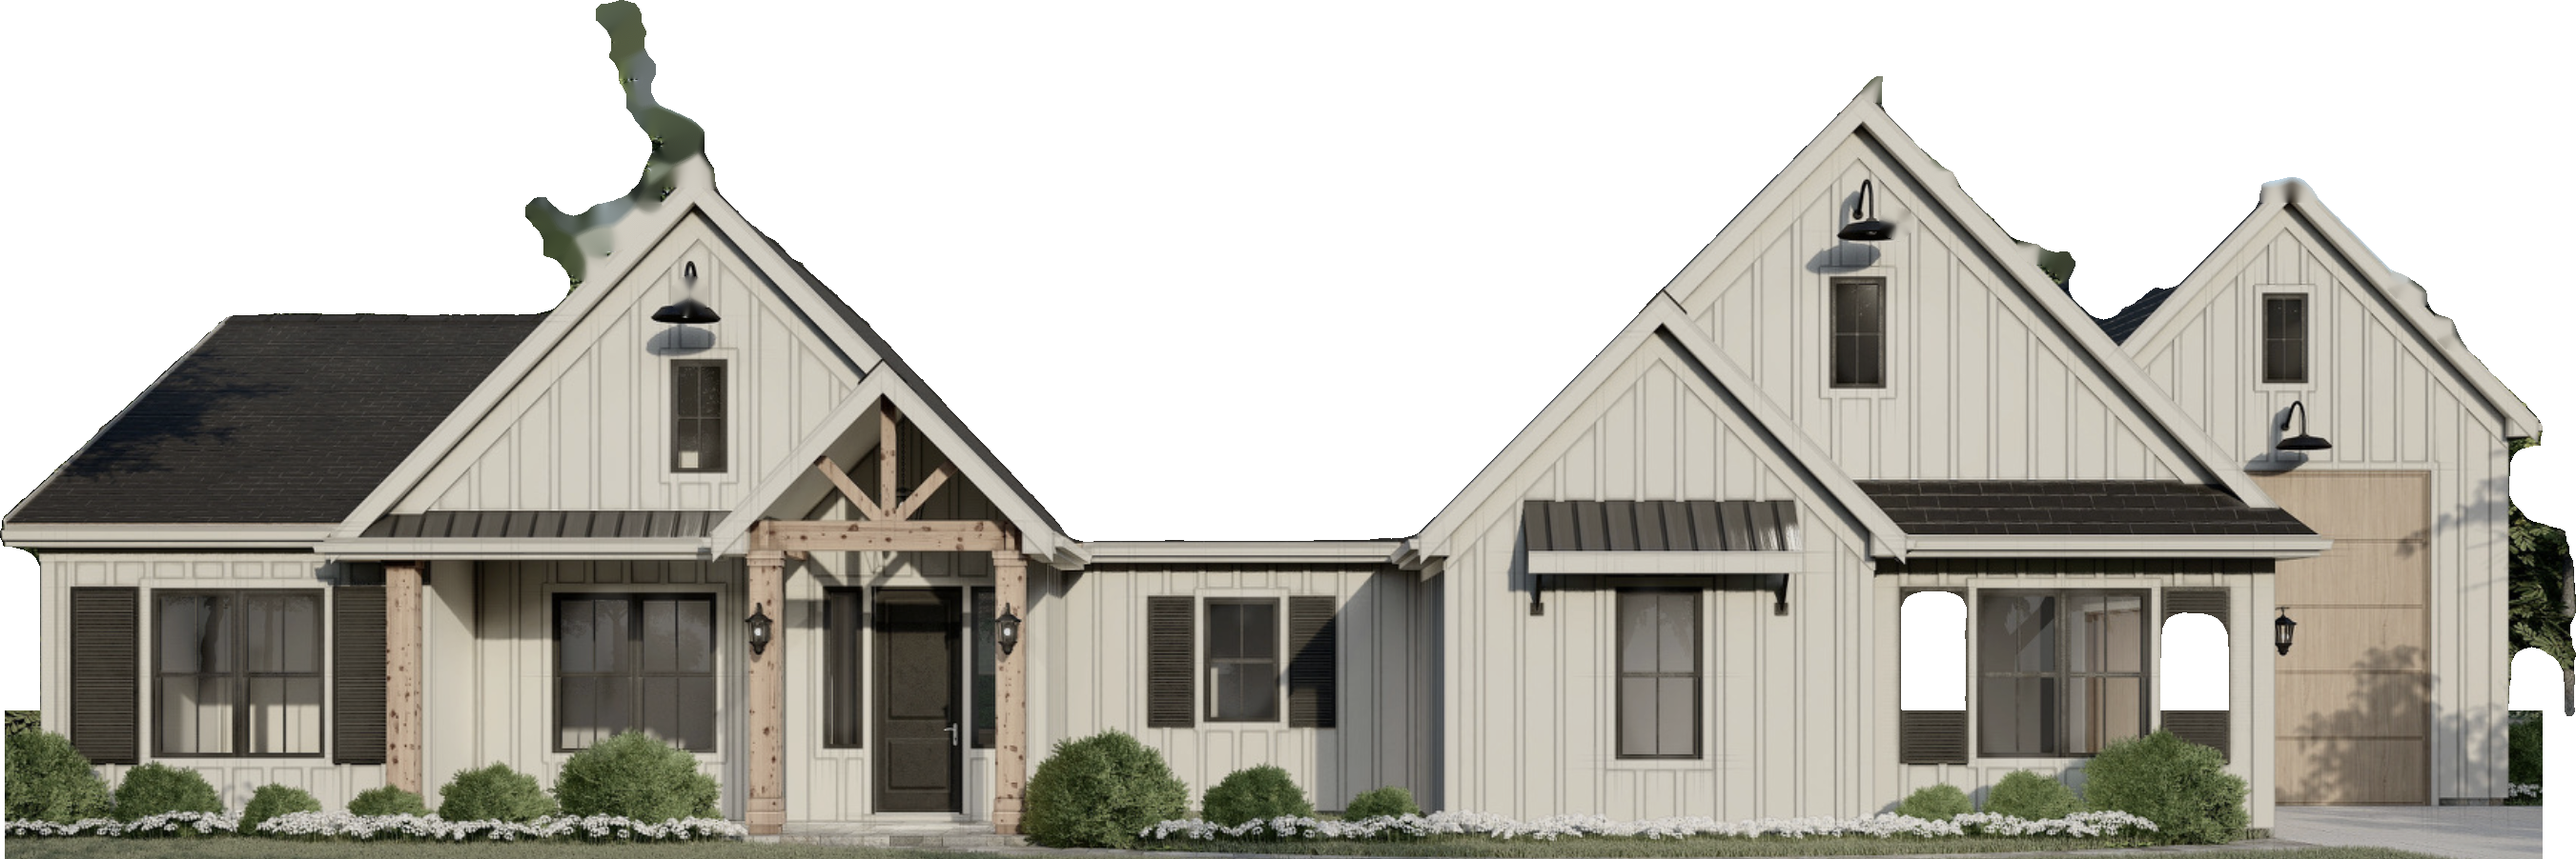
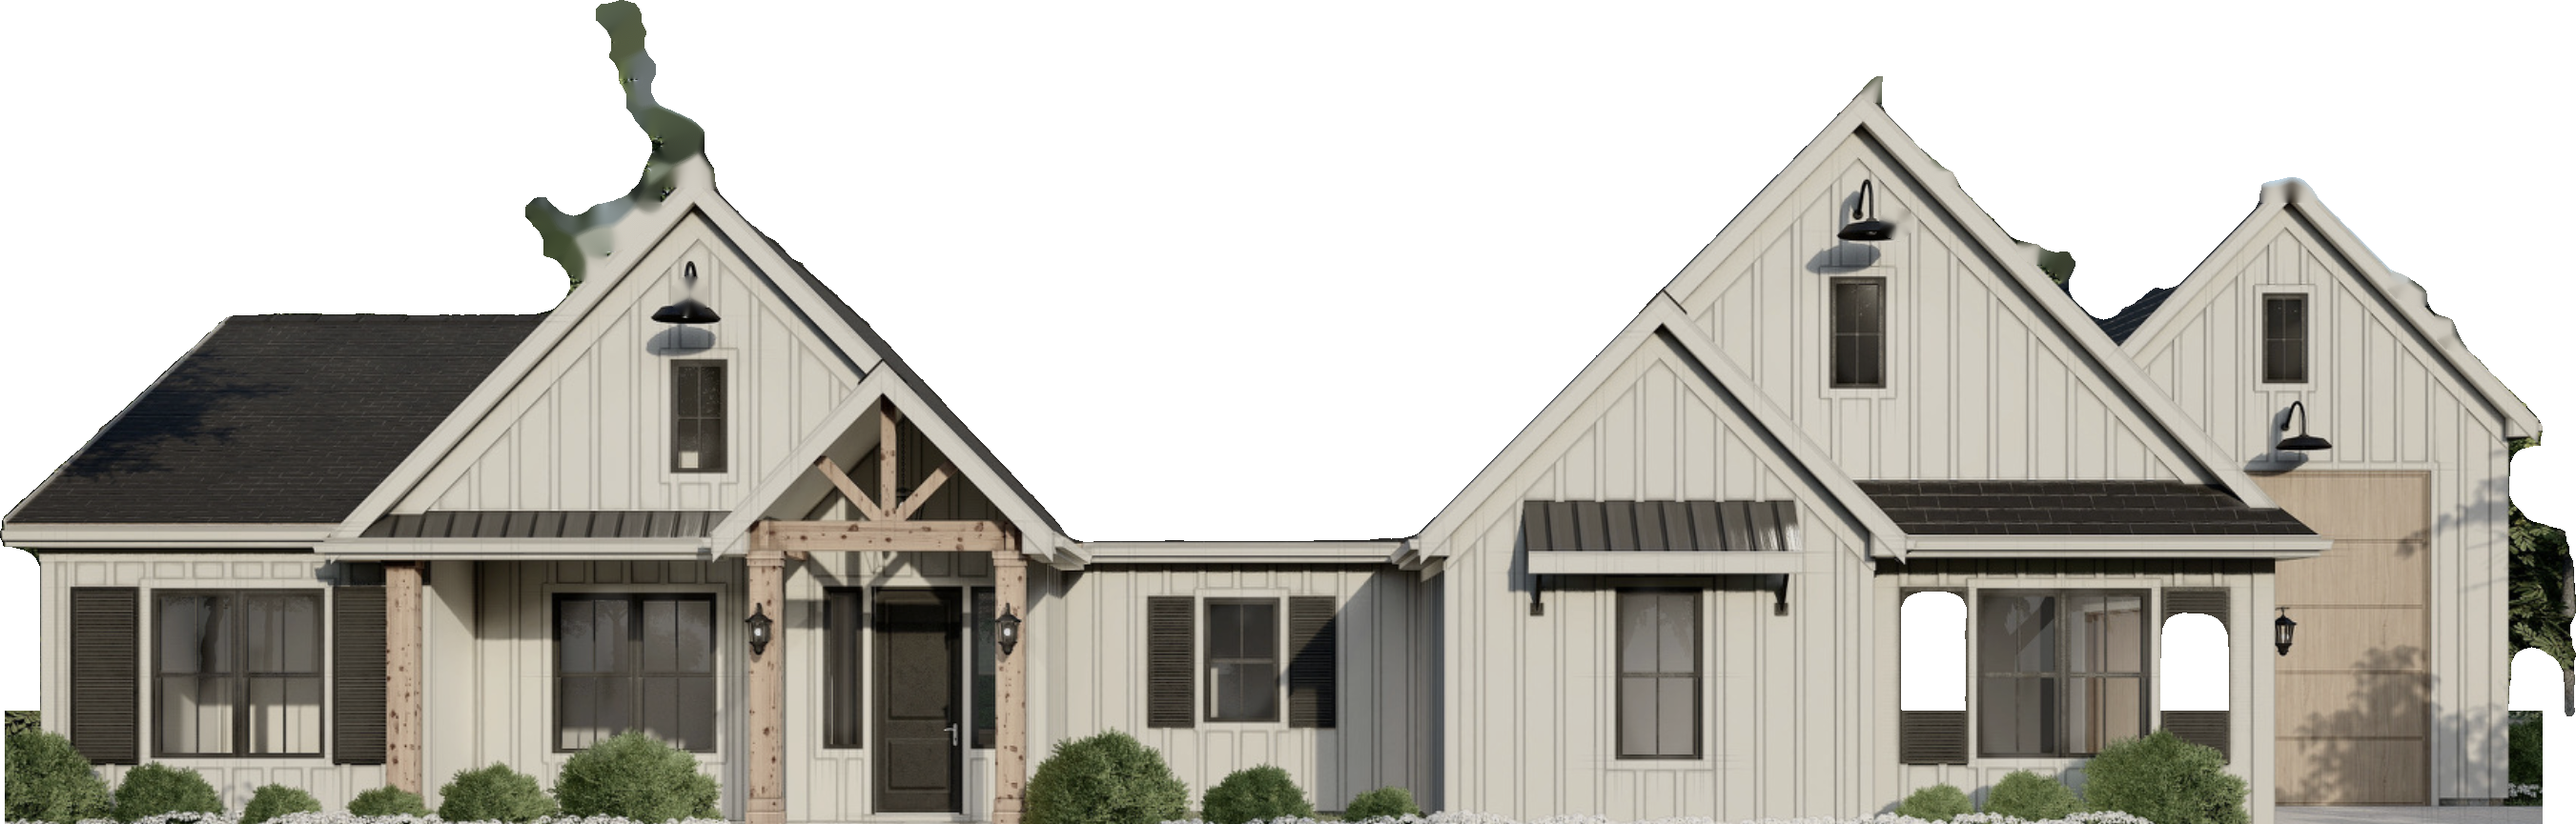
Fix driveway continuity: light concrete pave and street setback
Concrete no longer uses the dark asphalt map (which read as a black gap).
Homes drop near the curb with a realistic setback, and the apron/ribbon
share one light pave color through the garage threshold.

Changed region(s): [[0.0, 0.0936, 1.0, 1.0], [0.6218, 0.874, 0.6839, 0.9364], [0.6218, 0.7803, 0.6528, 0.8428]]

diff --git a/src/studio/StudioCanvas.tsx b/src/studio/StudioCanvas.tsx
@@ -196,10 +196,12 @@ export default function StudioCanvas({
 
     const shadow = shadowRef.current
     if (shadow && cutout?.visible) {
+      // Keep the contact shadow very soft — a dark disc was reading as a gap
+      // between pave and the garage doors.
       shadow.visible = true
       shadow.position.x = anchor.position.x
       shadow.position.z = anchor.position.z
-      const span = Math.max(cutout.scale.x, cutout.scale.y) * 0.38
+      const span = Math.max(cutout.scale.x, cutout.scale.y) * 0.28
       shadow.scale.set(span, span, 1)
     }
 
@@ -292,8 +294,25 @@ export default function StudioCanvas({
       return
     }
 
-    // Face the street on drop
+    // On first drop (or if the home is absurdly far from the curb), seat it near
+    // the street so the driveway is a realistic curb→garage run.
     const [fx, fz] = frontMidRef.current
+    const distToCurb = Math.hypot(anchor.position.x - fx, anchor.position.z - fz)
+    const needsSeat =
+      !cutoutRef.current?.visible || distToCurb > 140 * FT_TO_M || distToCurb < 20 * FT_TO_M
+    if (needsSeat) {
+      const inwardX = 0 - fx
+      const inwardZ = 0 - fz
+      const inwardLen = Math.hypot(inwardX, inwardZ) || 1
+      const setbackM = 58 * FT_TO_M
+      anchor.position.set(
+        fx + (inwardX / inwardLen) * setbackM,
+        0,
+        fz + (inwardZ / inwardLen) * setbackM
+      )
+    }
+
+    // Face the street on drop
     const yawRad = Math.atan2(
       -(fx - anchor.position.x),
       -(fz - anchor.position.z)
@@ -543,22 +562,22 @@ export default function StudioCanvas({
       new THREE.MeshBasicMaterial({
         color: 0x000000,
         transparent: true,
-        opacity: 0.22,
+        opacity: 0.1,
         depthWrite: false,
       })
     )
     shadow.rotation.x = -Math.PI / 2
-    shadow.position.y = 0.03
+    shadow.position.y = 0.02
     shadow.visible = false
     scene.add(shadow)
     shadowRef.current = shadow
 
-    // Driveway ribbon
+    // Driveway ribbon — map is only for asphalt; concrete stays a clean light slab
+    // so the path doesn't read as a black void next to the apron.
     const asphaltMap = makeAsphaltTexture()
     const drivewayMat = new THREE.MeshStandardMaterial({
-      map: asphaltMap,
-      color: 0xffffff,
-      roughness: 0.95,
+      color: 0xc4c2ba,
+      roughness: 0.92,
       metalness: 0.02,
     })
     const driveway = new THREE.Mesh(new THREE.BoxGeometry(1, 0.08, 1), drivewayMat)
@@ -601,21 +620,21 @@ export default function StudioCanvas({
 
       // Overshoot past the facade into the house mass so pave reads as going
       // all the way under the garage door (billboard has no depth).
-      const tipX = worldDoor.x + ux * 6.0
-      const tipZ = worldDoor.z + uz * 6.0
+      const tipX = worldDoor.x + ux * 8.0
+      const tipZ = worldDoor.z + uz * 8.0
       dx = tipX - fx
       dz = tipZ - fz
       len = Math.hypot(dx, dz)
 
-      const widthM = 18 * FT_TO_M
+      const widthM = 20 * FT_TO_M
       const isConcrete = materialRef.current === 'concrete'
-      const pave = isConcrete ? 0xc4c2ba : 0x555558
+      const pave = isConcrete ? 0xc8c6be : 0x4e4e52
 
       // Match curb to the active pave so the street start doesn't look detached
       const curbMesh = scene.getObjectByName('streetCurb') as THREE.Mesh | undefined
       if (curbMesh) {
         const cm = curbMesh.material as THREE.MeshStandardMaterial
-        cm.color.set(isConcrete ? 0xb0aea6 : 0x4a4a4e)
+        cm.color.set(isConcrete ? 0xb8b6ae : 0x3f3f43)
       }
 
       // Continuous ribbon: curb → under garage door
@@ -624,27 +643,37 @@ export default function StudioCanvas({
       driveway.scale.set(widthM, 1, len)
       driveway.rotation.y = Math.atan2(dx, dz)
       driveway.renderOrder = 2
-      asphaltMap.repeat.set(widthM / 2, Math.max(1, len / 2))
-      asphaltMap.needsUpdate = true
-      drivewayMat.color.set(pave)
+      if (isConcrete) {
+        drivewayMat.map = null
+        drivewayMat.color.set(pave)
+      } else {
+        asphaltMap.repeat.set(widthM / 2, Math.max(1, len / 2))
+        asphaltMap.needsUpdate = true
+        drivewayMat.map = asphaltMap
+        drivewayMat.color.set(0xffffff)
+      }
+      drivewayMat.needsUpdate = true
       drivewayMat.depthWrite = true
 
-      // Wide garage apron overlapping the last stretch — same pave, no seam
+      // Wide garage apron — same color/height family as the ribbon so it reads
+      // as one continuous pad from approach through the garage threshold.
       if (apronRef.current) {
         const apronMesh = apronRef.current
         const am = apronMesh.material as THREE.MeshStandardMaterial
         am.color.set(pave)
         am.depthWrite = true
-        const apronLen = Math.min(Math.max(14, len * 0.32), 24)
+        am.map = null
+        am.needsUpdate = true
+        const apronLen = Math.min(Math.max(16, len * 0.45), 28)
         worldApronOuter.set(tipX - ux * apronLen, 0, tipZ - uz * apronLen)
         apronMesh.visible = true
         apronMesh.renderOrder = 3
         apronMesh.position.set(
           (worldApronOuter.x + tipX) / 2,
-          0.11,
+          0.105,
           (worldApronOuter.z + tipZ) / 2
         )
-        apronMesh.scale.set(widthM * 2.05, 1.15, apronLen)
+        apronMesh.scale.set(widthM * 2.2, 1.2, apronLen)
         apronMesh.rotation.set(0, Math.atan2(dx, dz), 0)
       }
 

diff --git a/src/data/plans.ts b/src/data/plans.ts
@@ -44,8 +44,8 @@ export const homePlans: HomePlan[] = [
     name: 'The Brownstone',
     subtitle: 'Front-facing garage + RV bay',
     builder: 'Blackstone Homes',
-    elevationImg: '/plans/brownstone-elevation.jpg?v=drive7',
-    cutoutImg: '/plans/cutouts/brownstone.png?v=drive7',
+    elevationImg: '/plans/brownstone-elevation.jpg?v=drive8',
+    cutoutImg: '/plans/cutouts/brownstone.png?v=drive8',
     floorplanImg: '/plans/thumbs/brownstone-floorplan.jpg',
     pdfUrl: '/plans/brownstone-15-2-rwr.pdf',
     livingArea: '~2,880 sq ft living',
@@ -71,8 +71,8 @@ export const homePlans: HomePlan[] = [
     name: 'The Whitestone',
     subtitle: 'Front-facing garage',
     builder: 'Blackstone Homes',
-    elevationImg: '/plans/whitestone-elevation.jpg?v=drive7',
-    cutoutImg: '/plans/cutouts/whitestone.png?v=drive7',
+    elevationImg: '/plans/whitestone-elevation.jpg?v=drive8',
+    cutoutImg: '/plans/cutouts/whitestone.png?v=drive8',
     floorplanImg: '/plans/thumbs/whitestone-front-floorplan.jpg',
     pdfUrl: '/plans/whitestone-7-2-rwr.pdf',
     livingArea: '~2,140 sq ft living',
@@ -98,8 +98,8 @@ export const homePlans: HomePlan[] = [
     builder: 'Blackstone Homes',
     // Side-entry plan uses the same Whitestone marketing render until a
     // dedicated side-entry exterior photo is supplied.
-    elevationImg: '/plans/whitestone-elevation.jpg?v=drive7',
-    cutoutImg: '/plans/cutouts/whitestone.png?v=drive7',
+    elevationImg: '/plans/whitestone-elevation.jpg?v=drive8',
+    cutoutImg: '/plans/cutouts/whitestone.png?v=drive8',
     floorplanImg: '/plans/thumbs/whitestone-side-floorplan.jpg',
     pdfUrl: '/plans/whitestone-29-3-pse.pdf',
     livingArea: '~2,140 sq ft living',
